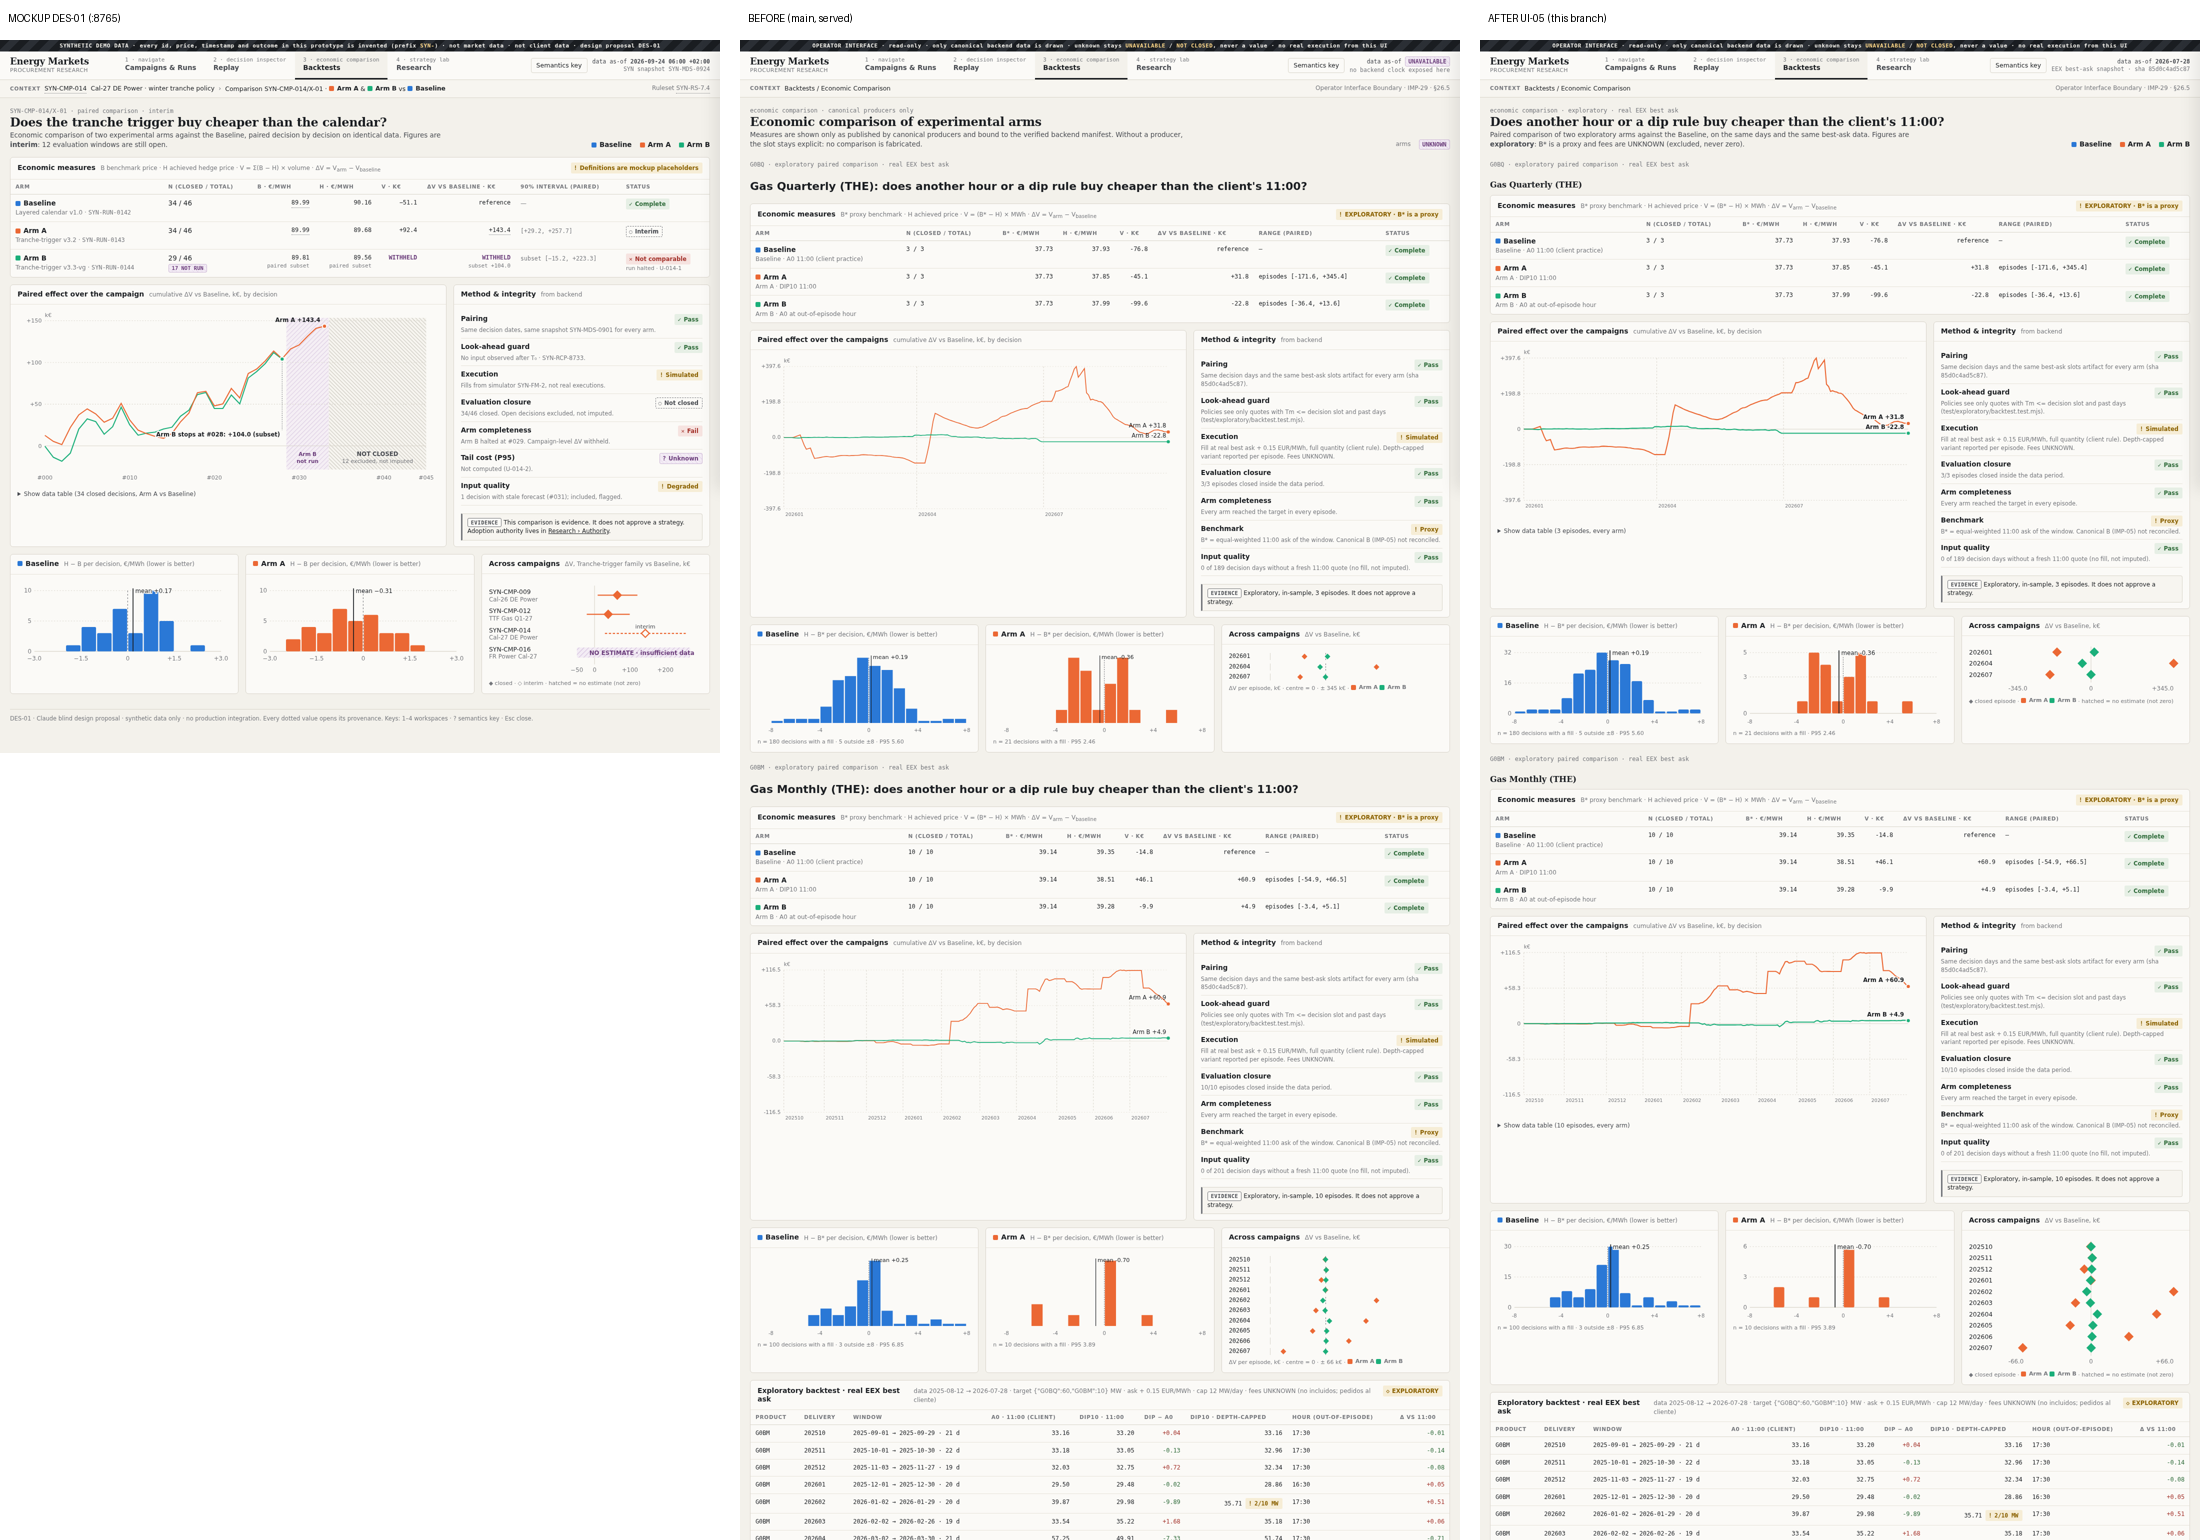
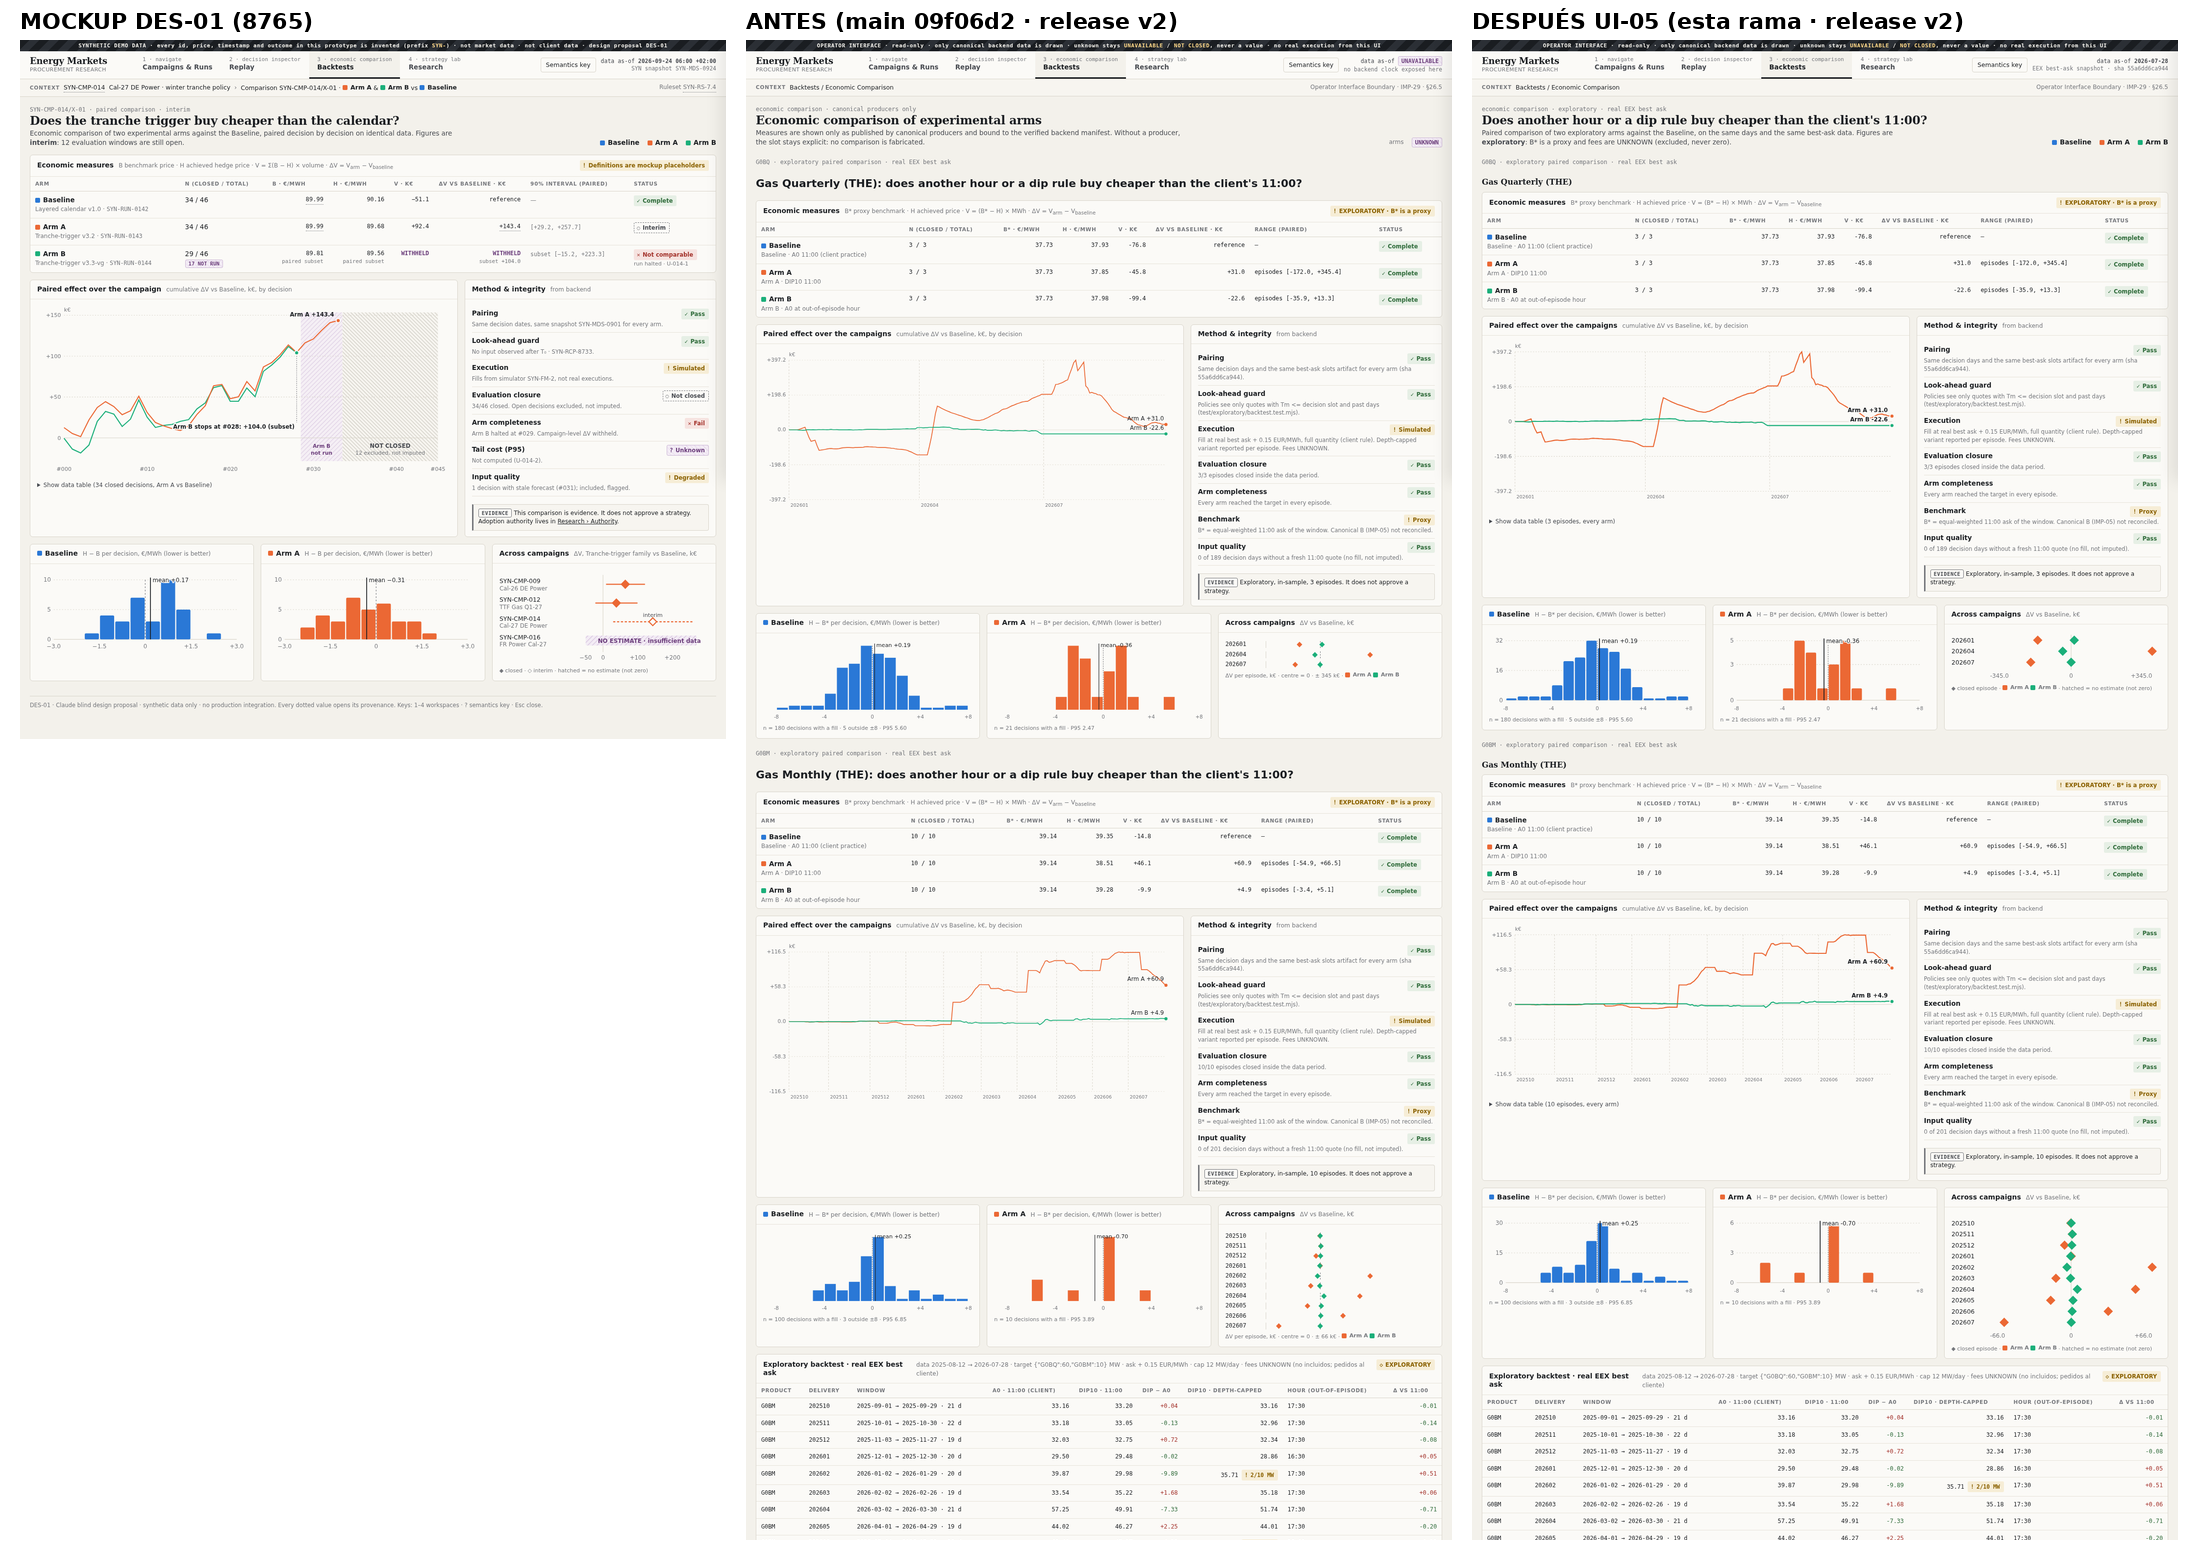
UI-05: captures and audit provenance regenerated against exploratory release v2
Review 2026-09-25 (UI05-CAP-01, UI05-PROV-01, UI05-DOC-01): the P-008 captures
and the audit doc were produced against the superseded v1 artifact, 19 s before
the merge that moved the loader to BT-04 release v2. All before/after/compare
and p008-campaigns captures are regenerated against v2 (slots sha 55a6dd6ca944);
the audit cites the v2 manifest and 8 candidates. New test pins the rendered
snapshot sha to the manifest of BT02_CURRENT_RELEASE.

diff --git a/docs/product/ui-05/UI-05_FIDELITY_AND_DATA_AUDIT.md b/docs/product/ui-05/UI-05_FIDELITY_AND_DATA_AUDIT.md
@@ -3,7 +3,7 @@
 - Pedido: Bru, 25-sep-2026 (PLAN_STATUS UI-05).
 - Mockup: rama `des-01-blind`, `design-proposal/index.html` (servido en :8765).
 - Capturas de referencia: `/srv/hot-data/metrics/ui-compare-20260925/*_mockup.png`, 1440x900.
-- Data: solo el artifact exploratorio verificado por hash (`operations/exploratory/MANIFEST.json` → `backtest-results.json`, sha256 `ce51969129b4…`) y el registro BT-02 (`reconciled-results-BT-02.json`). No se regeneró ningún artifact.
+- Data: solo la release vigente del backend exploratorio, la que resuelve el loader (`BT02_CURRENT_RELEASE = "v2"`, `src/exploratory/reconciliation.mjs`; BT-04, 25-sep): `operations/exploratory/v2/MANIFEST.json` (sha256 `3114f2ffb939…`) → `v2/backtest-results.json` (sha256 `660d14a0f7c5…`) y `v2/tob-slots-the-gas.json` (sha256 `55a6dd6ca944…`), más el registro BT-02 `v2/reconciled-results-BT-02.json` (sha256 `ad0cab12565f…`). La release v1 (`operations/exploratory/MANIFEST.json`, `backtest-results.json` sha256 `ce51969129b4…`) queda en disco superseded y la UI no la consume. Ningún artifact se regeneró en UI-05.
 
 ## Capturas para el gate de Bru
 
@@ -14,6 +14,11 @@
 | `after/` | Página completa después, 1440 px, más `replay-hindsight-on.png` (overlay de hindsight activado) |
 
 Para regenerarlas: `node src/ui/serve.mjs --port 8799` y Playwright a 1440x900, full page, en `/campaigns`, `/replay`, `/backtests` y `/research`.
+
+Todas las capturas de `before/`, `after/`, `compare/` y `p008-campaigns/` (salvo `prototype-campaigns.png` y los mockups) se regeneraron el 25-sep contra la release v2 (UI05-CAP-01): las anteriores eran del artifact v1 superseded. Comprobado en el HTML servido: ninguna página de los tres servidores contiene el sha v1 `85d0c4ad5c87` y todas contienen el v2 `55a6dd6ca944`, salvo `/replay` de `main`, que no pinta el sha del snapshot.
+- ANTES de `before/` y `compare/`: `main` en `09f06d2`, servido desde una copia `git archive` (release v2, UI sin UI-05).
+- DESPUÉS: esta rama, servida desde el worktree.
+- ANTES de `p008-campaigns/`: **reconstrucción**, no un commit servido tal cual. Es el código de UI de `b25096b` (`render`, `view-models`, `visual-language`) sobre el resto del árbol de esta rama, para que los dos lados pinten la misma release v2. `b25096b` servido tal cual pintaría v1.
 
 ## Qué diseño se recuperó
 
@@ -43,7 +48,7 @@ Para regenerarlas: `node src/ui/serve.mjs --port 8799` y Playwright a 1440x900, 
 | Backtests | Forest plot "Across campaigns" en SVG con eje | Filas HTML | SVG con eje, un rombo por brazo |
 | Todas | Reloj `data as-of` del shell | `UNAVAILABLE` | Último día del snapshot EEX usado (`inputs.dataPeriod.lastDataDay` = 2026-07-28) y sha del snapshot. Sin backtest exploratorio sigue `UNAVAILABLE`. |
 
-Secciones nuevas de UI-04/BT-03 que se conservan: dos bloques por producto (G0BQ, G0BM) en Backtests, tabla "Exploratory backtest · real EEX best ask", perfiles horarios, "Campaign measurements · backend readiness" (BT-02), las 21 campañas, las 31 decisiones con compra y los 9 candidatos.
+Secciones nuevas de UI-04/BT-03 que se conservan: dos bloques por producto (G0BQ, G0BM) en Backtests, tabla "Exploratory backtest · real EEX best ask", perfiles horarios, "Campaign measurements · backend readiness" (BT-02), las 21 campañas, las 31 decisiones con compra y los 8 candidatos (`A0, DIP10, HOUR, S2, S3, S4, S5, Z`).
 
 ## Auditoría pieza por pieza: ¿la data de hoy lo sostiene?
 
